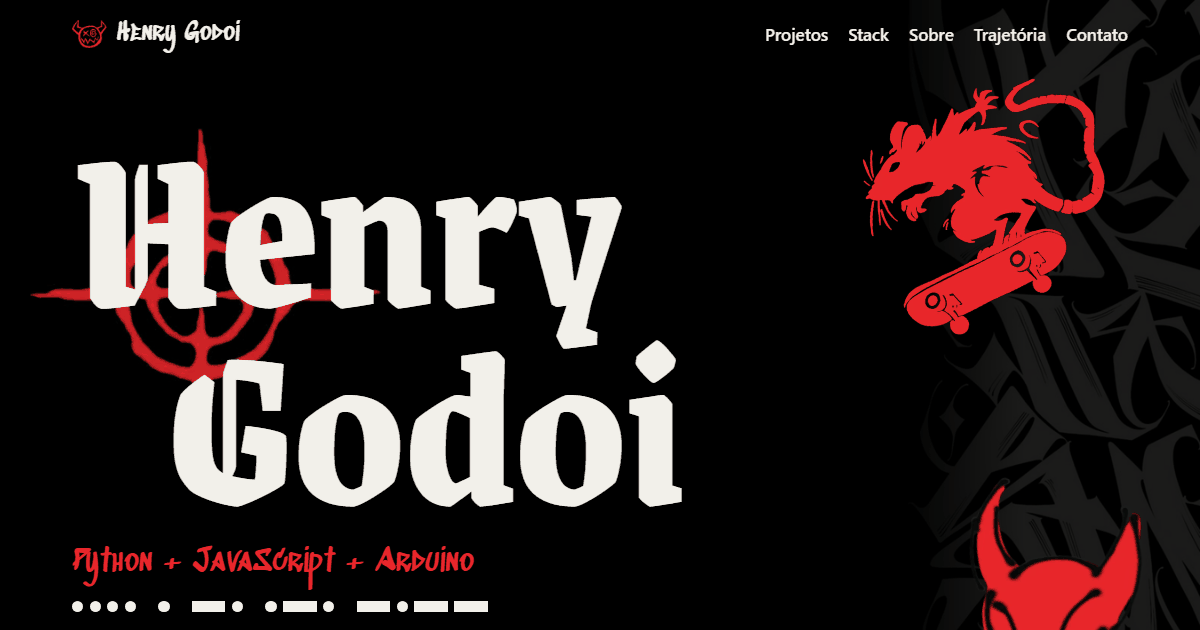
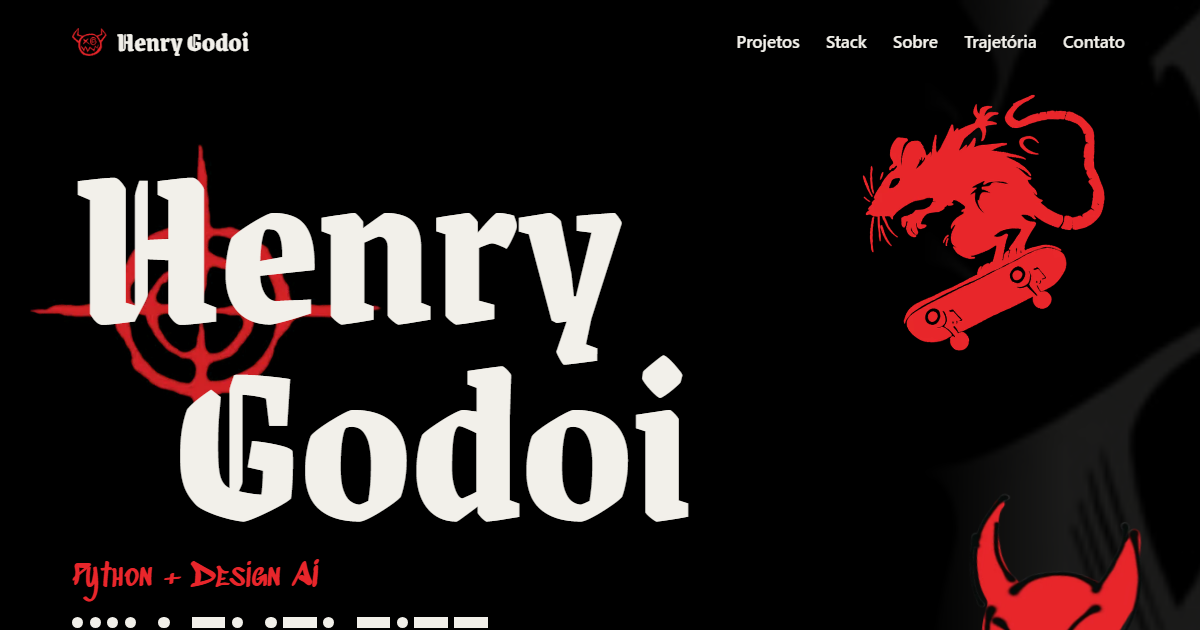
Ajustes da revisão: celular, menu, fontes, Sobre, faixa e foto do Morse

diff --git a/index.html b/index.html
@@ -18,8 +18,8 @@
 <link rel="icon" href="img/favicon.png" type="image/png">
 <link rel="preconnect" href="https://fonts.googleapis.com">
 <link rel="preconnect" href="https://fonts.gstatic.com" crossorigin>
-<link rel="stylesheet" href="https://fonts.googleapis.com/css2?family=Grenze+Gotisch:wght@800&amp;family=Rubik+Spray+Paint&amp;family=Sedgwick+Ave+Display&amp;display=swap" media="print" onload="this.media='all'">
-<noscript><link rel="stylesheet" href="https://fonts.googleapis.com/css2?family=Grenze+Gotisch:wght@800&amp;family=Rubik+Spray+Paint&amp;family=Sedgwick+Ave+Display&amp;display=swap"></noscript>
+<link rel="stylesheet" href="https://fonts.googleapis.com/css2?family=Grenze+Gotisch:wght@800&amp;family=Sedgwick+Ave+Display&amp;display=swap" media="print" onload="this.media='all'">
+<noscript><link rel="stylesheet" href="https://fonts.googleapis.com/css2?family=Grenze+Gotisch:wght@800&amp;family=Sedgwick+Ave+Display&amp;display=swap"></noscript>
 <link rel="stylesheet" href="style.css">
 </head>
 <body>
@@ -45,7 +45,7 @@
       <h1 id="nome" class="nome"><span>Henry</span> <span>Godoi</span></h1>
       <img class="hero-rato" src="img/rato.webp" width="420" height="432" alt="">
       <img class="hero-diabo" src="img/diabo-spray.webp" width="360" height="408" alt="">
-      <p class="faixa">Python + JavaScript + Claude Pro</p>
+      <p class="faixa">Python + Design AI</p>
       <p class="morse" role="img" aria-label="Henry em código Morse">
         <span class="letra"><i class="p"></i><i class="p"></i><i class="p"></i><i class="p"></i></span>
         <span class="letra"><i class="p"></i></span>
@@ -119,11 +119,11 @@
     <h3 class="sub">Atividades de aula</h3>
     <ul class="mural">
       <li class="nota nota-foto">
-        <img src="img/morse.webp" width="800" height="450" alt="Interface receptora mostrando a mensagem decodificada Pensamento Computacional" loading="lazy">
+        <img src="img/morse.webp" width="560" height="708" alt="Arduino Uno ligado a uma protoboard com o LED infravermelho do circuito transmissor" loading="lazy">
         <h4>Código Morse por infravermelho</h4>
         <p>Dois Arduinos trocam mensagens em Morse por luz infravermelha, com uma interface web para cada um. Montado de verdade.</p>
         <p class="tags">Arduino, HTML, JavaScript, Web Serial</p>
-        <a href="https://github.com/HenryGodoi/Trabalho_G2-C-digo_Morse">Código Morse no GitHub</a>
+        <a href="https://github.com/HenryGodoi/Trabalho_G2-Codigo_Morse">Código Morse no GitHub</a>
       </li>
       <li class="nota">
         <h4>Lab de Algoritmos</h4>
@@ -159,14 +159,14 @@
       <div><dt>JavaScript, HTML e CSS</dt><dd>O Viaje Mais e as interfaces web do Código Morse.</dd></div>
       <div><dt>Node.js</dt><dd>O back-end do Viaje Mais, sem dependências externas.</dd></div>
       <div><dt>C++ para Arduino</dt><dd>Quatro atividades de aula, uma delas montada de verdade.</dd></div>
-      <div><dt>Ferramentas</dt><dd>Git e GitHub e Tinkercad.</dd></div>
+      <div><dt>Ferramentas</dt><dd>Git, GitHub e Tinkercad.</dd></div>
     </dl>
   </section>
 
   <section class="secao" id="sobre" aria-labelledby="t-sobre">
     <h2 id="t-sobre">Sobre</h2>
     <img class="boneco" src="img/diabo-xo.webp" width="360" height="290" alt="" loading="lazy">
-    <p class="sobre">Tenho 18 anos e curso Sistemas de Informação na Antonio Meneghetti Faculdade desde 2026. Fui campeão do Ideathon 2026 com o Viaje Mais Experiências, sendo responsável pelo desenvolvimento do protótipo funcional como PWA, com back-end em Node.js. Também participei do hackathon CodeRace 2026, onde nossa equipe desenvolveu o DryLeaf. Atualmente atuo como jovem aprendiz na área financeira da Marzari Alimentos, aplicando organização e atenção aos detalhes. Gosto de trabalhar em equipe e de aprender novas tecnologias.</p>
+    <p class="sobre">Tenho 18 anos e curso Sistemas de Informação na Antonio Meneghetti Faculdade desde 2026. Fui campeão do Ideathon 2026 com o Viaje Mais Experiências, onde desenvolvi o protótipo funcional, e no CodeRace 2026 atuei na pesquisa e na documentação do DryLeaf. Hoje sou jovem aprendiz na área financeira da Marzari Alimentos e gosto de trabalhar em equipe e de aprender novas tecnologias.</p>
   </section>
 
   <section class="secao" id="trajetoria" aria-labelledby="t-trajetoria">

diff --git a/style.css b/style.css
@@ -6,7 +6,6 @@
   --gotico: "Grenze Gotisch", "Old English Text MT", serif;
   --gutter: clamp(16px, 4vw, 48px);
   --largura: 72rem;
-  --spray: "Rubik Spray Paint", Impact, sans-serif;
   --tag: "Sedgwick Ave Display", "Comic Sans MS", cursive;
   --texto: system-ui, -apple-system, "Segoe UI", Roboto, Arial, sans-serif;
 }
@@ -78,7 +77,7 @@ ul, ol { padding: 0; margin: 0; list-style: none; }
   display: flex;
   gap: .6rem;
   align-items: center;
-  font: 400 1.6rem/1 var(--tag);
+  font: 800 1.7rem/1 var(--gotico);
   text-decoration: none;
 }
 
@@ -86,7 +85,7 @@ ul, ol { padding: 0; margin: 0; list-style: none; }
 
 .topo ul { display: flex; flex-wrap: wrap; gap: .25rem 1.25rem; }
 
-.topo nav a { font-weight: 600; text-decoration: none; }
+.topo nav a { display: inline-flex; align-items: center; min-height: 44px; padding: 0 .2rem; font-weight: 600; text-decoration: none; }
 
 .topo nav a:hover { text-decoration: underline; text-decoration-color: var(--vermelho); color: var(--giz); }
 
@@ -243,7 +242,8 @@ ul, ol { padding: 0; margin: 0; list-style: none; }
   left: .9rem;
   bottom: .55rem;
   color: var(--fundo);
-  font: 400 1.15rem/1.2 var(--tag);
+  font-size: .95rem;
+  font-weight: 600;
 }
 
 .selo {
@@ -257,7 +257,7 @@ ul, ol { padding: 0; margin: 0; list-style: none; }
   transform: rotate(-2deg);
 }
 
-.cartaz h3 { font: 400 clamp(2.4rem, 6vw, 3.6rem)/.95 var(--spray); text-transform: uppercase; }
+.cartaz h3 { font: 800 clamp(2.6rem, 6.5vw, 4rem)/.95 var(--gotico); }
 
 .linha { margin: .9rem 0 0; max-width: 34rem; }
 
@@ -277,7 +277,7 @@ ul, ol { padding: 0; margin: 0; list-style: none; }
 
 .caso-corpo { max-width: 38rem; }
 
-.caso h4 { margin-top: 1.25rem; font: 400 1.5rem/1.1 var(--tag); color: var(--vermelho); }
+.caso h4 { margin-top: 1.25rem; font-size: 1.1rem; font-weight: 700; color: var(--vermelho); }
 
 .caso p { margin: .35rem 0 0; }
 
@@ -304,7 +304,7 @@ ul, ol { padding: 0; margin: 0; list-style: none; }
 
 .nota-foto img { margin: -1.25rem -1.25rem .5rem; width: calc(100% + 2.5rem); max-width: none; border-bottom: 2px solid var(--giz); }
 
-.nota h4 { font: 400 1.65rem/1.05 var(--tag); }
+.nota h4 { font-size: 1.2rem; font-weight: 700; line-height: 1.25; }
 
 .nota p { margin: 0; }
 
@@ -324,11 +324,16 @@ ul, ol { padding: 0; margin: 0; list-style: none; }
 
 .stack div:last-child { border-bottom: 2px solid var(--giz); }
 
-.stack dt { font: 400 1.65rem/1.1 var(--tag); color: var(--vermelho); }
+.stack dt { font-size: 1.15rem; font-weight: 700; line-height: 1.3; color: var(--vermelho); }
 
 .stack dd { margin: 0; align-self: center; }
 
 @media (max-width: 40rem) {
+  .topo { gap: 0 1rem; }
+  .topo ul { gap: 0 .45rem; }
+  .topo nav a { font-size: .95rem; }
+  .hero-rato { top: -1.25rem; right: 0; width: 5.5rem; }
+  .hero-diabo { display: none; }
   .stack div { grid-template-columns: 1fr; }
   .boneco { position: static; margin-bottom: 1rem; }
 }
@@ -371,7 +376,7 @@ ul, ol { padding: 0; margin: 0; list-style: none; }
 
 .email {
   display: inline-block;
-  font: 400 clamp(1.6rem, 6.5vw, 4rem)/1.1 var(--spray);
+  font: 700 clamp(1.4rem, 5.5vw, 3.2rem)/1.15 var(--texto);
   text-decoration: underline;
   text-decoration-color: var(--vermelho);
   text-decoration-thickness: 5px;
